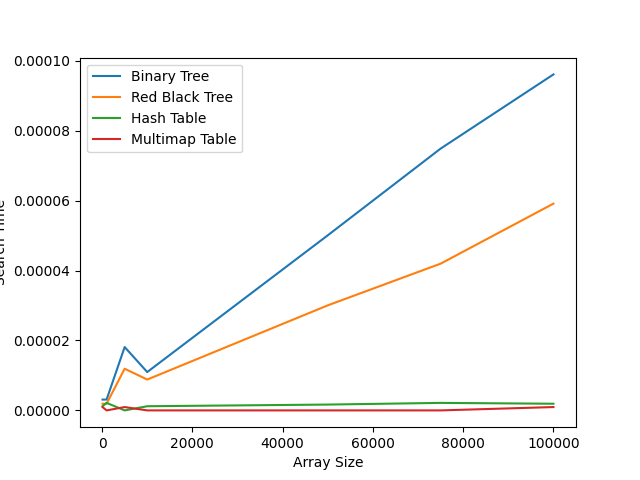
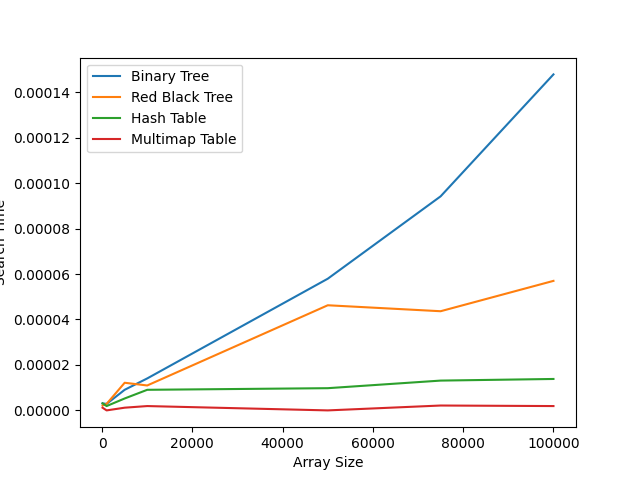
started lab3

diff --git a/lab2/algos/hash.py b/lab2/algos/hash.py
@@ -35,6 +35,13 @@ class HashTable:
                 return item[1]
         return None
 
+    def search_value(self, key, value):
+        index = self.hash_function(key)
+        for item in self.table[index]:
+            if item[0] == key and item[1] == value:
+                return item[1]
+        return None
+
 
 # Подсчет числа коллизий хэш функц
 # ии и построение графика

diff --git a/lab2/main.py b/lab2/main.py
@@ -51,7 +51,9 @@ def compare_search_time(sizes):
             hashtable.insert(obj["key"], obj["value"])
 
         hashtable_start_time = time.time()
-        hashtable.search(key)
+
+        rnd_obj = random.choice(objects)
+        hashtable.search_value(rnd_obj["key"], rnd_obj["value"])
         hashtable_end_time = time.time()
         hashtable_time.append(hashtable_end_time - hashtable_start_time)
 

diff --git a/README.md b/README.md
@@ -1,0 +1,32 @@
+# Использованные команды
+```bash
+cd back
+docker-compose --file docker-compose.dev.services.yml up -d
+NODE_ENV=development npx sequelize-cli db:migrate
+npm run dev
+
+cd ..
+
+cd back-ws-vcs/
+vim .env
+git checkout develop
+npm i
+npm run dev
+
+cd ..
+
+cd back-web-socket/
+npm i
+npm run dev
+
+cd ..
+cd front
+vim .env
+npm install -g pnpm@8.14.1
+pnpm install
+pnpm dev
+```
+
+В `back-ws-vcs` и `back-web-socket` пришлось поменять названия таблиц с метриками графаны с `metrics` на `grafana-metrics` - кто-то накосячил, и из-за этого не запускалось приложение
+
+`vim src/databases/schemas/metrics.schema.ts`
